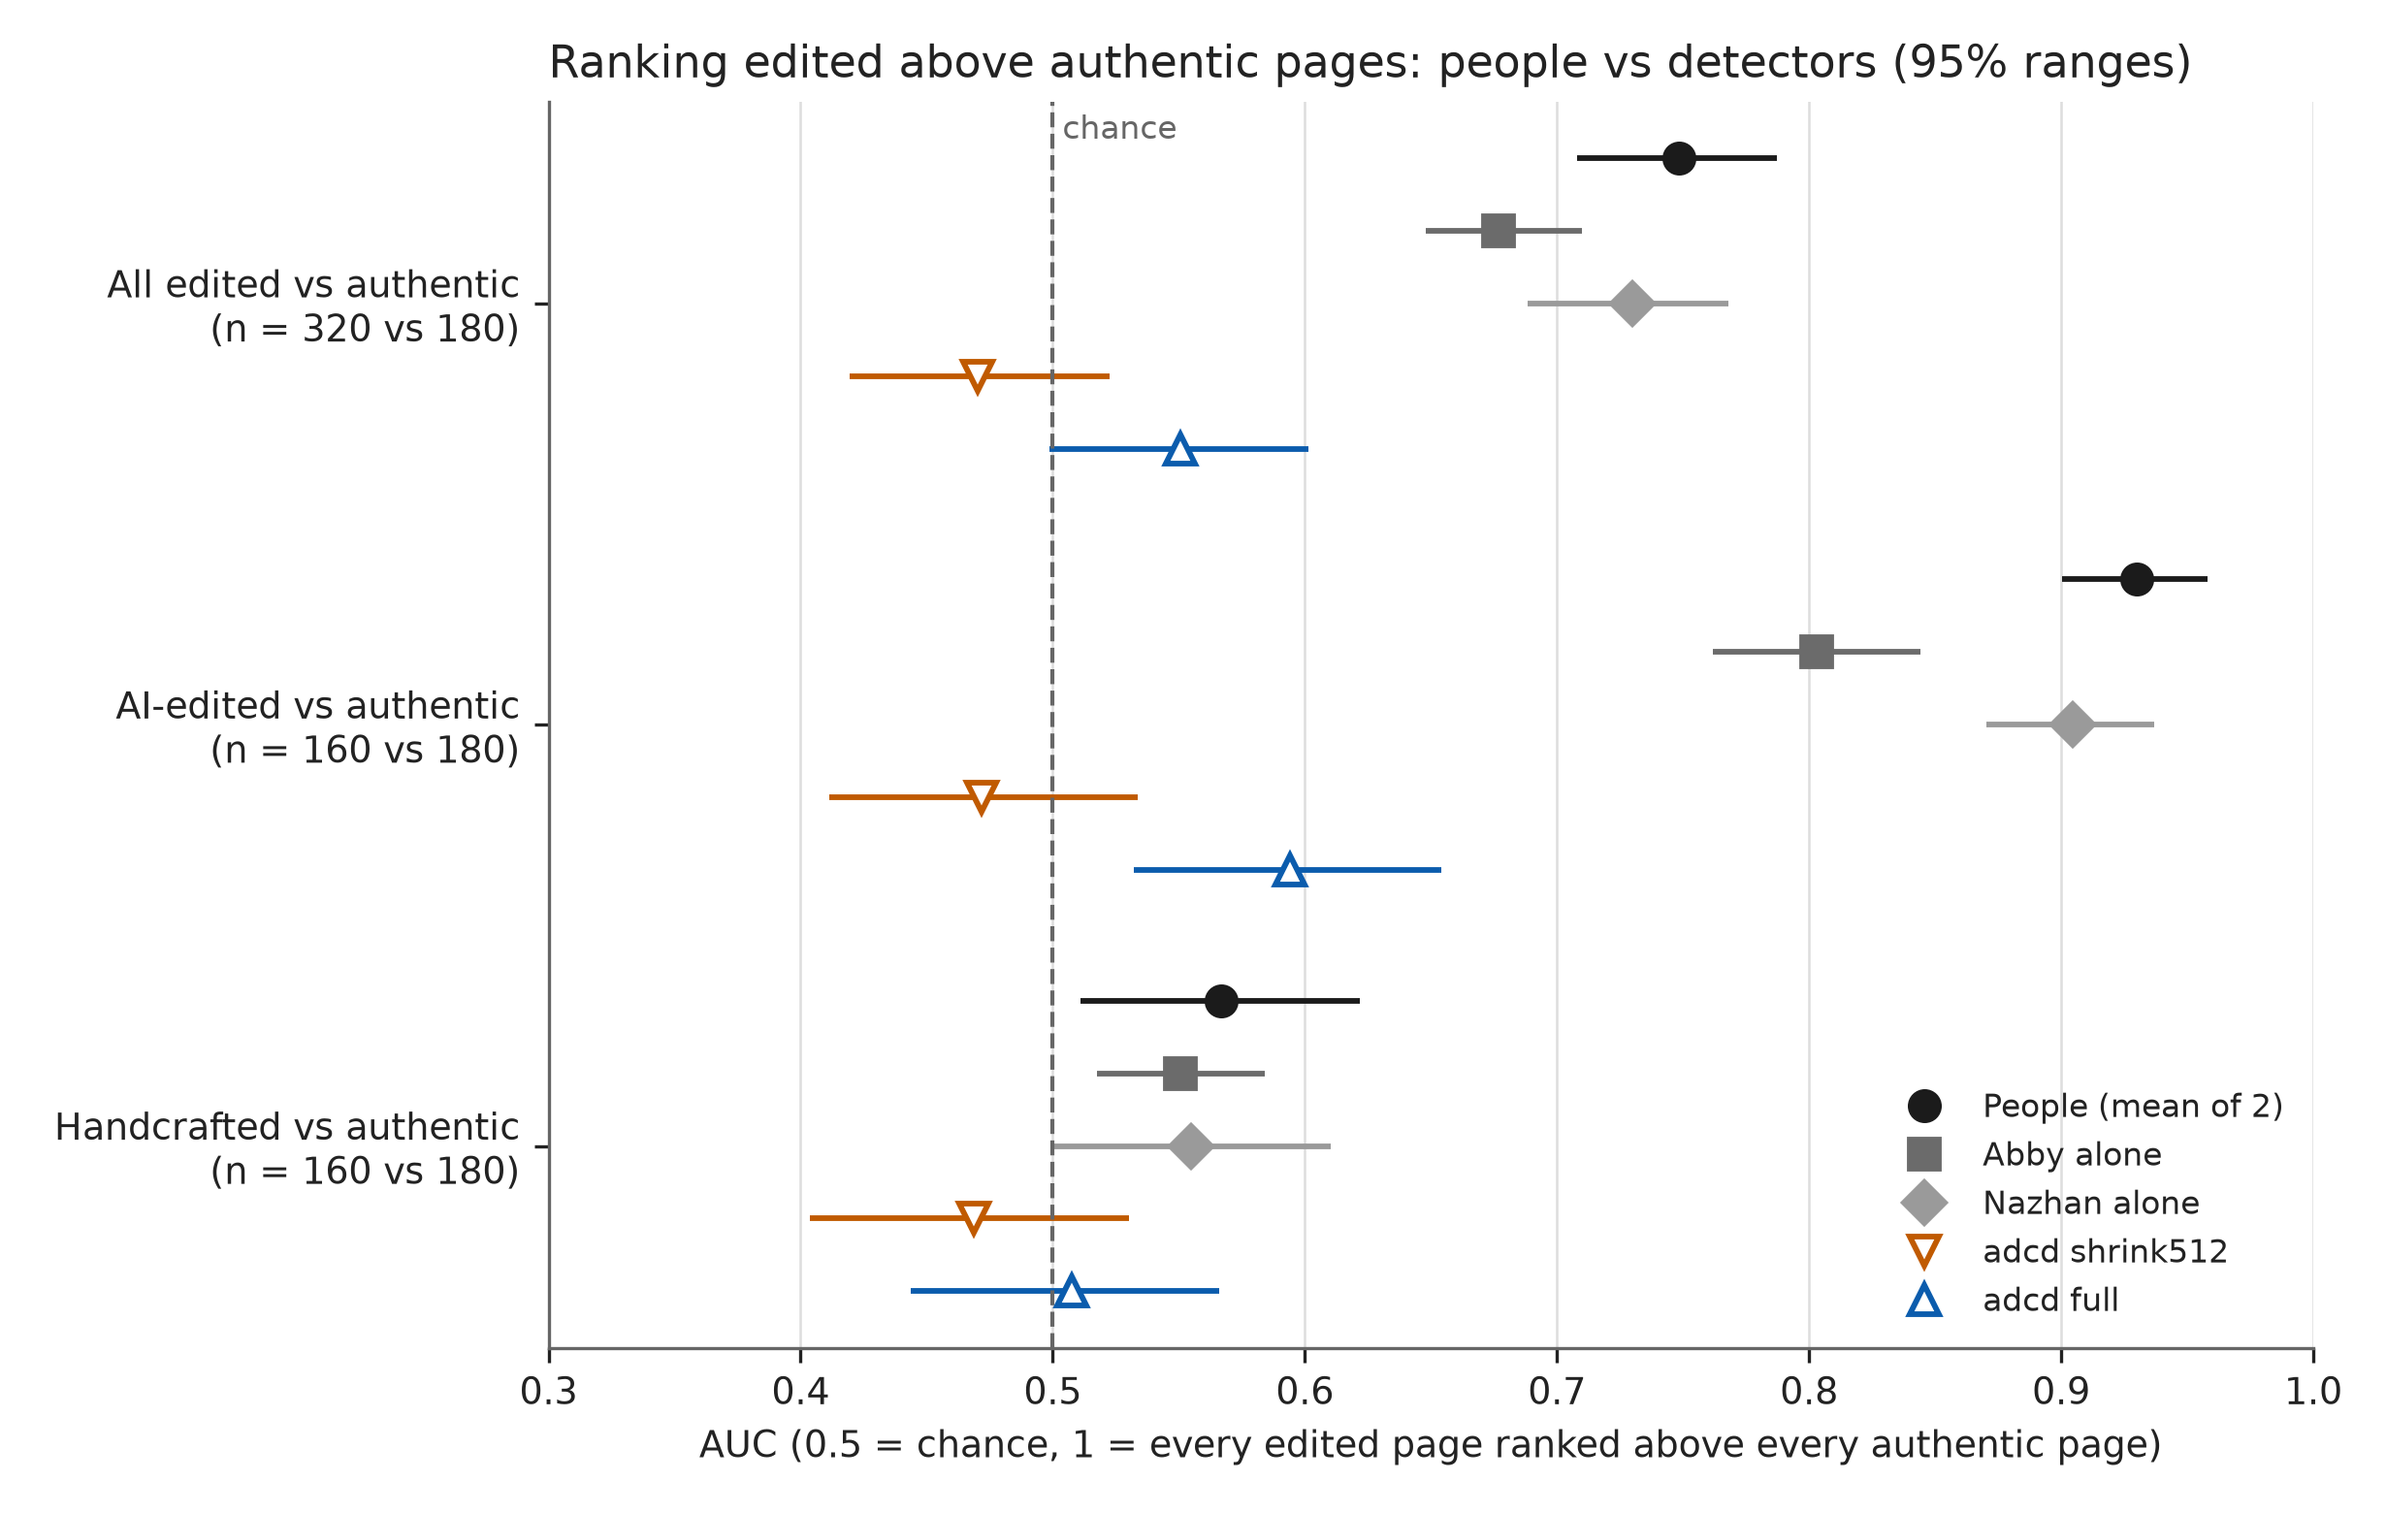
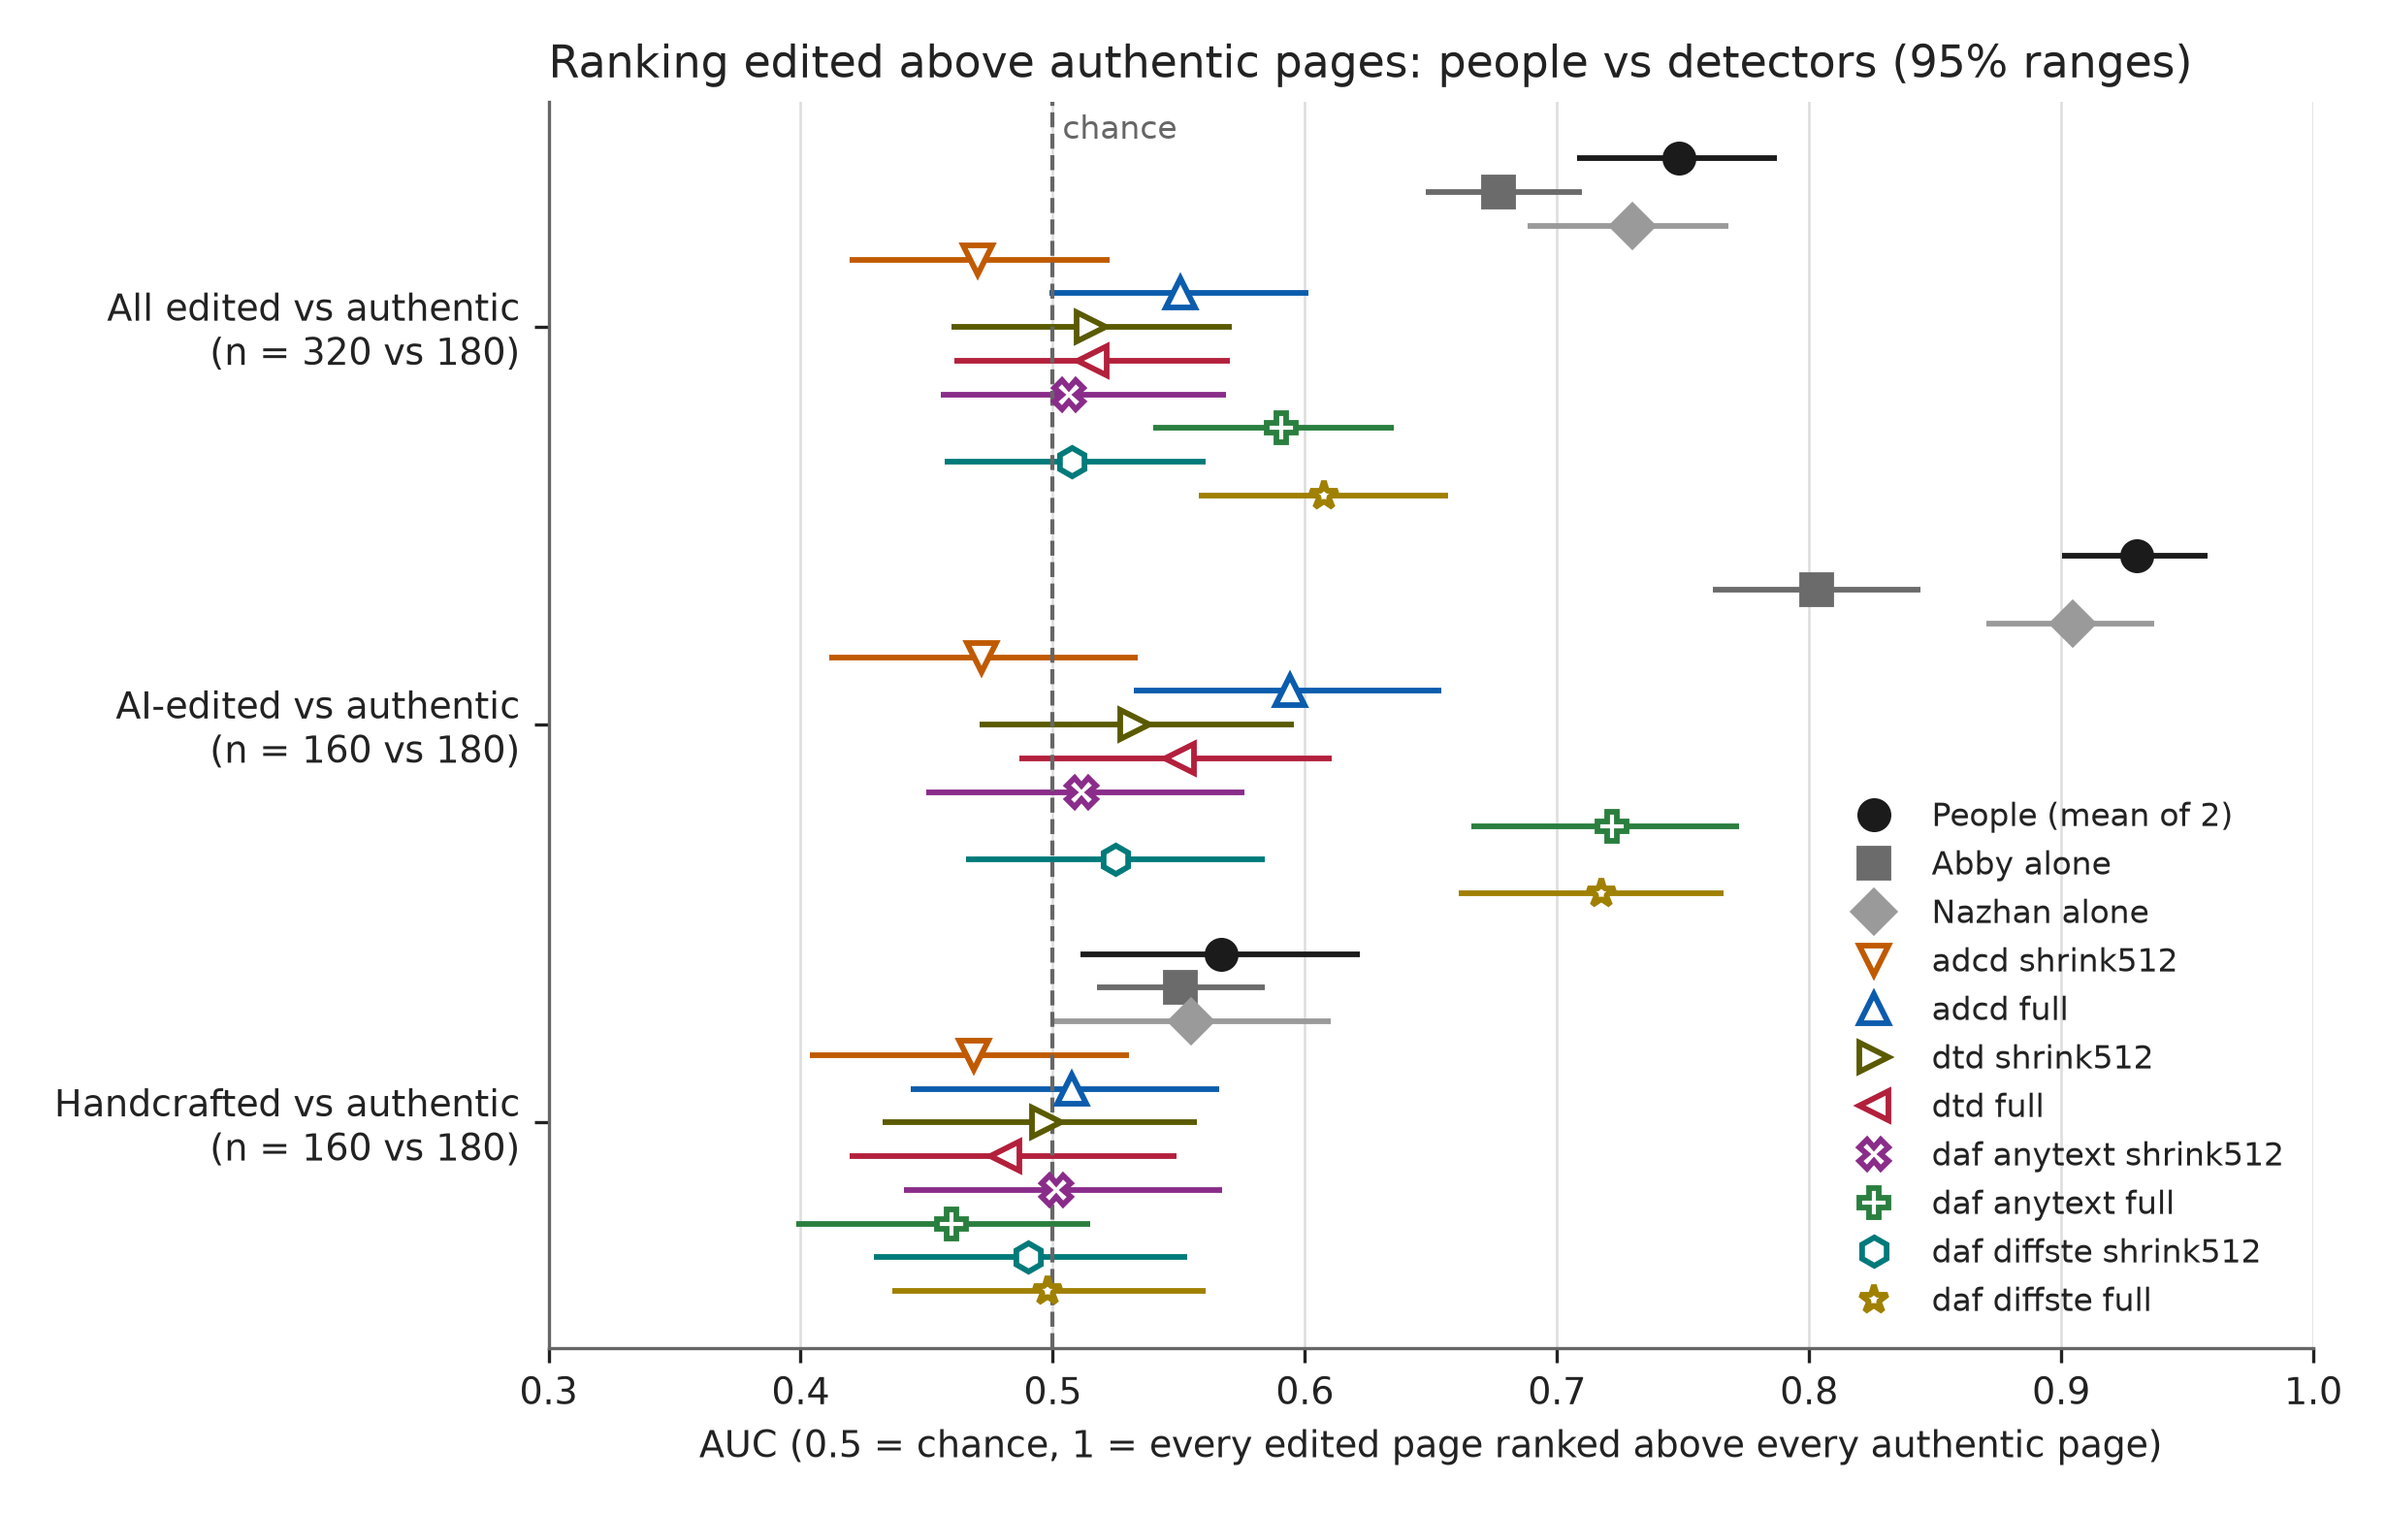
T49: add DTD and DAF (AnyText, DiffSTE) to people vs detectors; tables, charts, decisions

diff --git a/analysis/human/make_figures.py b/analysis/human/make_figures.py
@@ -26,8 +26,8 @@ INK, MUTED, GRID = "#222222", "#666666", "#dddddd"
 # One style per scorer: marker shape, filled or hollow, colour. People are filled, detectors hollow.
 PEOPLE_STYLE = {"people_mean": ("o", True, "#1b1b1b"), "people_abby": ("s", True, "#6b6b6b"),
                 "people_nazhan": ("D", True, "#9a9a9a")}
-DETECTOR_MARKERS = ["^", "v", "P", "X", "*", "h"]
-DETECTOR_COLOURS = ["#0b5cad", "#c05a00", "#2a7f3f", "#8a2c8a", "#a08000", "#007a7a"]
+DETECTOR_MARKERS = ["^", "v", "P", "X", "*", "h", "<", ">"]
+DETECTOR_COLOURS = ["#0b5cad", "#c05a00", "#2a7f3f", "#8a2c8a", "#a08000", "#007a7a", "#b3203c", "#5a5a00"]
 # Plain-words labels for the legend and rows.
 COMPARISON_LABEL = {"edited_vs_authentic": "All edited vs authentic", "ai_vs_authentic": "AI-edited vs authentic",
                     "handcrafted_vs_authentic": "Handcrafted vs authentic"}
@@ -113,7 +113,7 @@ def figure_by_people(path):
     det_styles = detector_styles({f"{d}_{s}" for d, s in keys})
     scopes = [("edited", "All edited"), ("ai", "AI-edited"), ("handcrafted", "Handcrafted")]
     verdicts = ["people_flagged", "in_between", "people_missed"]
-    fig, ax = plt.subplots(figsize=(8.2, 5.6))
+    fig, ax = plt.subplots(figsize=(8.2, 7.6))
     y, ticks, labels = 0.0, [], []
     for scope, scope_label in scopes:
         for verdict in verdicts:
@@ -140,9 +140,10 @@ def figure_by_people(path):
     handles, names = ax.get_legend_handles_labels()
     handles.append(Line2D([0], [0], color=MUTED, linestyle=":", linewidth=1.4))
     names.append("dotted = fewer than 30 edited pages")
-    ax.legend(handles, names, loc="upper left", fontsize=8, frameon=False, labelcolor=INK)
+    # Legend sits below the plot so it never covers a point.
+    ax.legend(handles, names, loc="upper center", bbox_to_anchor=(0.4, -0.1), ncol=3, fontsize=8, frameon=False, labelcolor=INK)
     fig.tight_layout()
-    fig.savefig(path, dpi=300)
+    fig.savefig(path, dpi=300, bbox_inches="tight")
     plt.close(fig)
 
 

diff --git a/docs/decisions.md b/docs/decisions.md
@@ -90,3 +90,4 @@ One dated line per method choice, result-changing fix, plan change or run proble
 - 2026-11-20 (T14, Alycia): `shared/score.py` was run on this laptop with Python 3.14.7, numpy 2.5.4 and scipy 1.18.1, not the versions pinned in `shared/requirements.txt` (numpy 1.26.4 has no build for Python 3.14). Chosen over changing `shared/requirements.txt`, which Abby owns. Scoring was run once for both sizes together, so `scores.csv` holds both.
 - 2026-11-20 (T14, Alycia): The 3-page test call at 10:50 (Malaysia time) on 20 Nov processed no new pages but rewrote `run_info.json` for both sizes, which reset its `last_call_*` re-save counts to 0. `shrink512`: the original file survived in a private copy made on 19 Nov (call started 14:49 Malaysia time) and was put back on the Volume; it says 1,647 pages re-saved as JPEG quality 100, none used as is, none re-saved for a table value above 63 (the 3 test pages from the earlier call make up the 1,650; `shrink512` always re-saves). `full`: the original counts are not recovered. No private copy of the full run's file exists (the only `full` copies are from the 3-page test), and `run_log.csv` has no column for the input route, so the split of PNG pages re-saved, JPEG pages kept and the table-above-63 JPEG pages re-saved is unconfirmed from the files. The job code is unchanged since commit 190bc40 and contains the quality-100 re-save and the table-above-63 rule; no rerun was made. Limitation: for `full`, that DTD read PNG pages and coarse-table JPEG pages through a quality-100 re-save rests on the code, not on a saved count. `results/dtd/score_info.json` holds a copy of the overwritten `run_info.json`, so its re-save counts read 0.
 - 2026-11-20 (T17, Alycia): The DTD top-score spread analysis (`analysis/dtd/top_score_spread.py`) reads only the private compact `.npz` outputs (each page's `top` value) and the group and file-format columns of `sample.csv`, never a page; its numbers are quoted in `results/dtd/SUMMARY.md` but are not stored in a results file. The link between PNG pages sitting at the top of the score band at full size and the quality-100 re-save is a suggestion, untested: no run changed the re-save, and the full run's re-save counts are unconfirmed (see the T14 line of 20 Nov on `run_info.json`).
+- 2026-11-20 (T49, Abby): T49 was rerun with DTD and DAF added to ADCD-Net, reading the compact .npz outputs (not run_log.csv) of all four detector folders (adcd, dtd, daf_anytext, daf_diffste), each at shrink512 and full. DAF's two weights (AnyText, DiffSTE) are two detectors shown on their own, never pooled into one DAF number, because they are different trained weights with their own results/ folders. Every detector's rule B was rebuilt on all 1,650 pages with shared/score.py and matched its results/<detector>/scores.csv (largest difference under 5.1e-07) before use; the ADCD rows, the people rows and edit_found_rates are unchanged from the first T49 run. The chart legends were changed to give each of the 8 detector/size series its own marker and colour, with chart 2's legend moved below the plot. Chosen over pooling the DAF weights or leaving DTD out. Limitation: with eight series per row the second chart is crowded, so its values are best read from detector_auc_by_people.csv.
